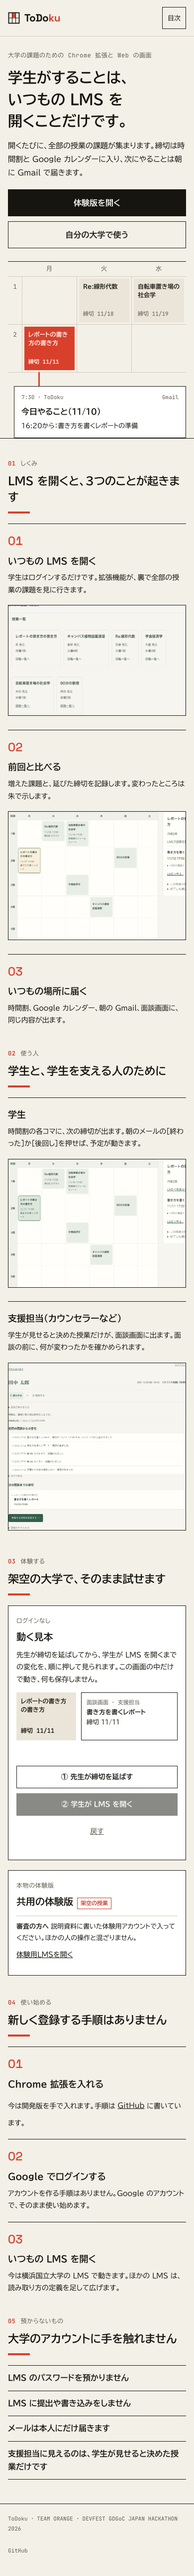
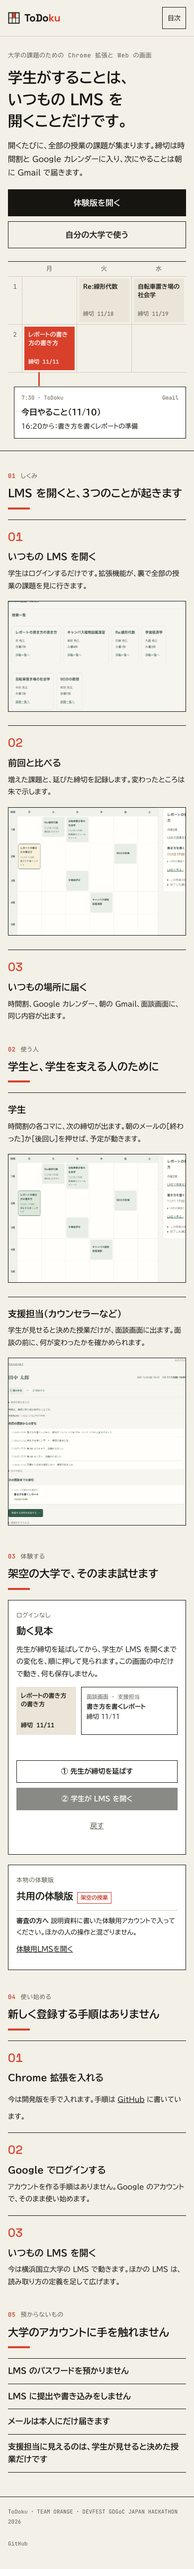
スマホの紹介ページでメールと見出しを枠内に収める

diff --git a/packages/web/src/landing.css b/packages/web/src/landing.css
@@ -96,6 +96,7 @@
   .landing .try { grid-template-columns: 1fr; }
 }
 @media (max-width: 700px) {
+  .landing :is(h1, h2, h3) { text-wrap: balance; }
   .landing .pc-only, .landing .mail .mb { display: none; }
   .landing .brand svg { width: 24px; height: 24px; }
   .landing .top { flex-wrap: wrap; padding: 14px 16px; }
@@ -110,7 +111,7 @@
   .landing .lead { font-size: 15px; margin-top: 14px; }
   .landing .btns { flex-direction: column; gap: 10px; margin-top: 20px; }
   .landing .btn { font-size: 16px; padding: 14px 16px; text-align: center; }
-  .landing .vis { position: relative; height: 330px; margin-top: 26px; }
+  .landing .vis { position: relative; height: auto; margin-top: 26px; }
   .landing .grid { position: static; width: auto; grid-template-columns: 28px repeat(3, minmax(0, 1fr)); }
   .landing .grid > :nth-child(6n), .landing .grid > :nth-child(6n - 1), .landing .grid > :nth-child(n + 19) { display: none; }
   .landing .gh { height: 30px; font-size: 12px; }
@@ -121,12 +122,12 @@
   .landing .cn { font-size: 12px; }
   .landing .nx { font-size: 11px; }
   .landing .wire { left: 61px; top: 222px; height: 28px; }
-  .landing .mail { left: 12px; right: 0; top: 250px; width: auto; padding: 12px 14px; }
+  .landing .mail { position: static; margin: 28px 0 0 12px; width: auto; padding: 12px 14px; }
   .landing .mh { font-size: 11px; }
   .landing .ms { font-size: 16px; margin-top: 6px; }
   .landing .mi { font-size: 13px; margin-top: 4px; }
   .landing .sec { padding: 40px 16px 4px; }
-  .landing .sh { font-size: 22px; margin-top: 10px; line-height: 1.45; }
+  .landing .sh { font-size: 21px; margin-top: 10px; line-height: 1.45; }
   .landing .bar { width: 44px; margin-top: 12px; }
   .landing .steps, .landing .two, .landing .try, .landing .start, .landing .safe { display: block; margin-top: 20px; }
   .landing .step, .landing .who { padding-top: 14px; margin-top: 20px; }
